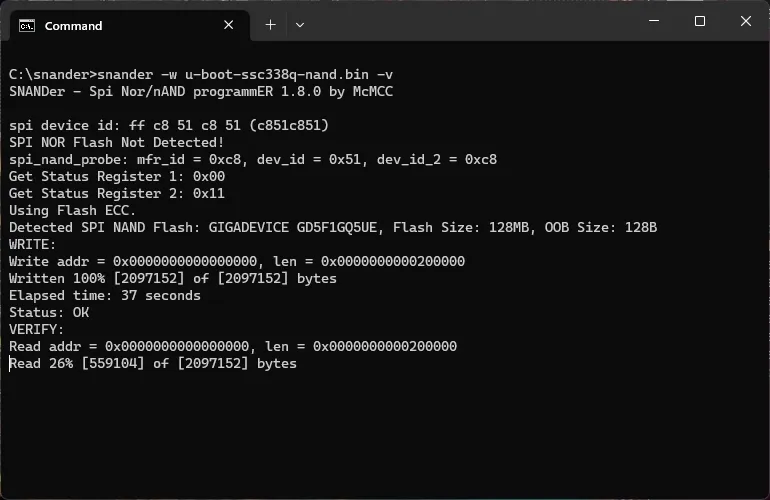
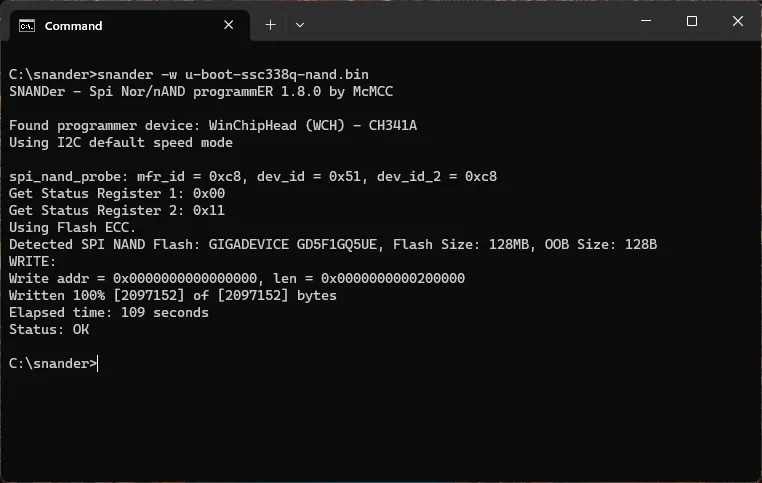
Update sigmastar-unbrick.md

diff --git a/en/sigmastar-unbrick.md b/en/sigmastar-unbrick.md
@@ -21,16 +21,24 @@ Sigmastar unbrick
 ---
 
 **Check the device flash with snander:**
+- _0x49 -> ISP_
+- _0x59 -> DEBUG_
 ```
-snander -i
+snander -i -q
 ```
 
 <img src="../images/sigmastar-check.webp">
 
-**Erase, write and verify new uboot:**
+**Erase the boot partition:**
 ```
 snander -l 0x200000 -e
-snander -w u-boot-ssc338q-nand.bin -v
+```
+
+<img src="../images/sigmastar-erase.webp">
+
+**Write the new uboot file:**
+```
+snander -w u-boot-ssc338q-nand.bin
 ```
 
 <img src="../images/sigmastar-write.webp">
